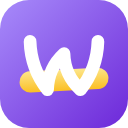
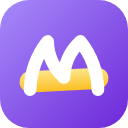
feat: 标志字母 W 改为 M
M 就是 W 的垂直镜像（y' = 506 − y，弧度控制点一并翻过去），所以四笔的
同向微弯原样保留，其余元素——高亮笔刷、紫色方块、留白、配色——全不动。

小尺寸变体（16px 用）同比例重算：它的 y 范围是 150–362，镜像轴是 512。

brand/png/*.png 与 icons/、v2/icons/ 一并按新标志重渲染。

Changed region(s): [[0.1562, 0.25, 0.8438, 0.75]]

diff --git a/brand/README.md b/brand/README.md
@@ -4,13 +4,13 @@
 
 ## 概念
 
-**「一根弯成 W 的面条，压在一道高亮笔刷上」** —— 面条捞词做的是两件事：在网页上**划**出词，然后**收藏**它。
+**「一根弯成 M 的面条，压在一道高亮笔刷上」** —— 面条捞词做的是两件事：在网页上**划**出词，然后**收藏**它。
 
-标志把这两件事压成一个形状：字母 W（Word / 词）压在一道略微倾斜的高亮笔刷上。
-笔刷比 W 略宽、略歪，像手划出来的，不是排版排出来的。
+标志把这两件事压成一个形状：字母 M（面条 / MianTiao）压在一道略微倾斜的高亮笔刷上。
+笔刷比 M 略宽、略歪，像手划出来的，不是排版排出来的。
 
-W 的四笔**同向**微弯，于是这个字母本身也读得出「一根弯过来的面」。
-弯曲刻意做得克制：到 16px 时弧线会被压平，而**交替**方向的弯会让 W 直接糊成一团（试过，不能用）。
+M 的四笔**同向**微弯，于是这个字母本身也读得出「一根弯过来的面」。
+弯曲刻意做得克制：到 16px 时弧线会被压平，而**交替**方向的弯会让 M 直接糊成一团（试过，不能用）。
 
 标志只用两个元素，是为了 16px 的扩展工具栏图标也能立住：
 黄条负责「划词」，白 W 负责「词」，紫色方块负责在浏览器里被认出来。
